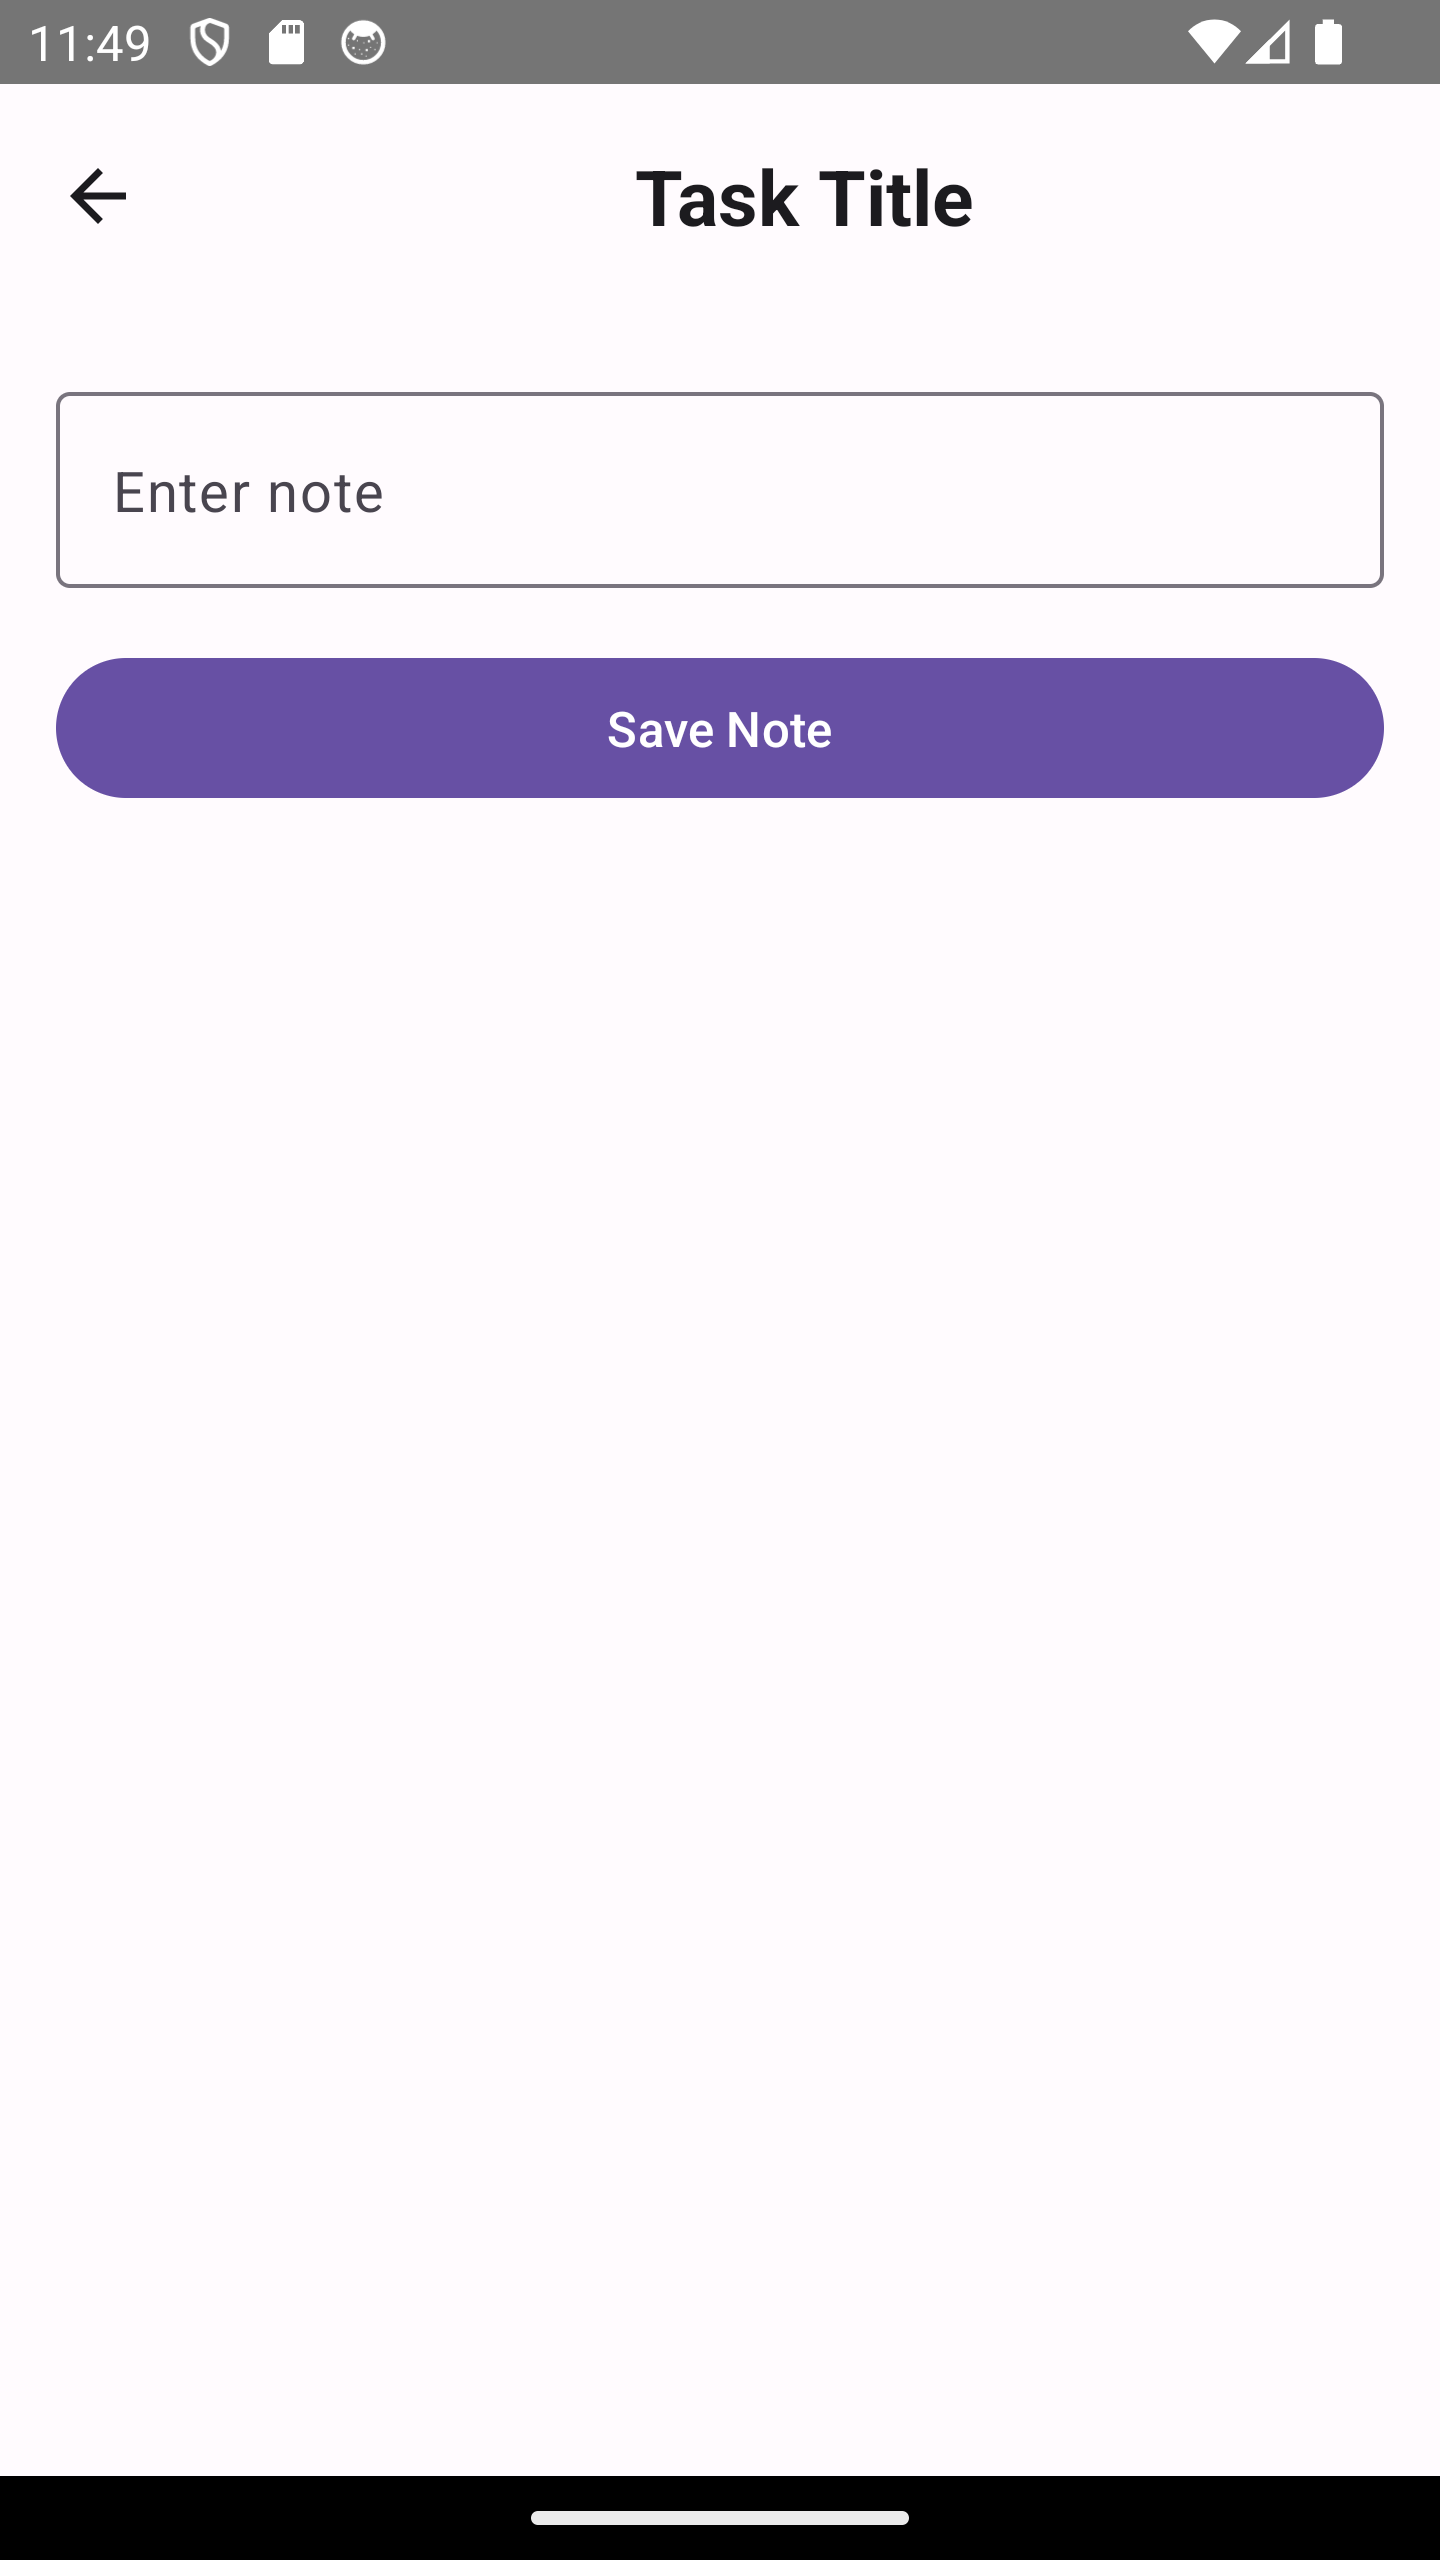
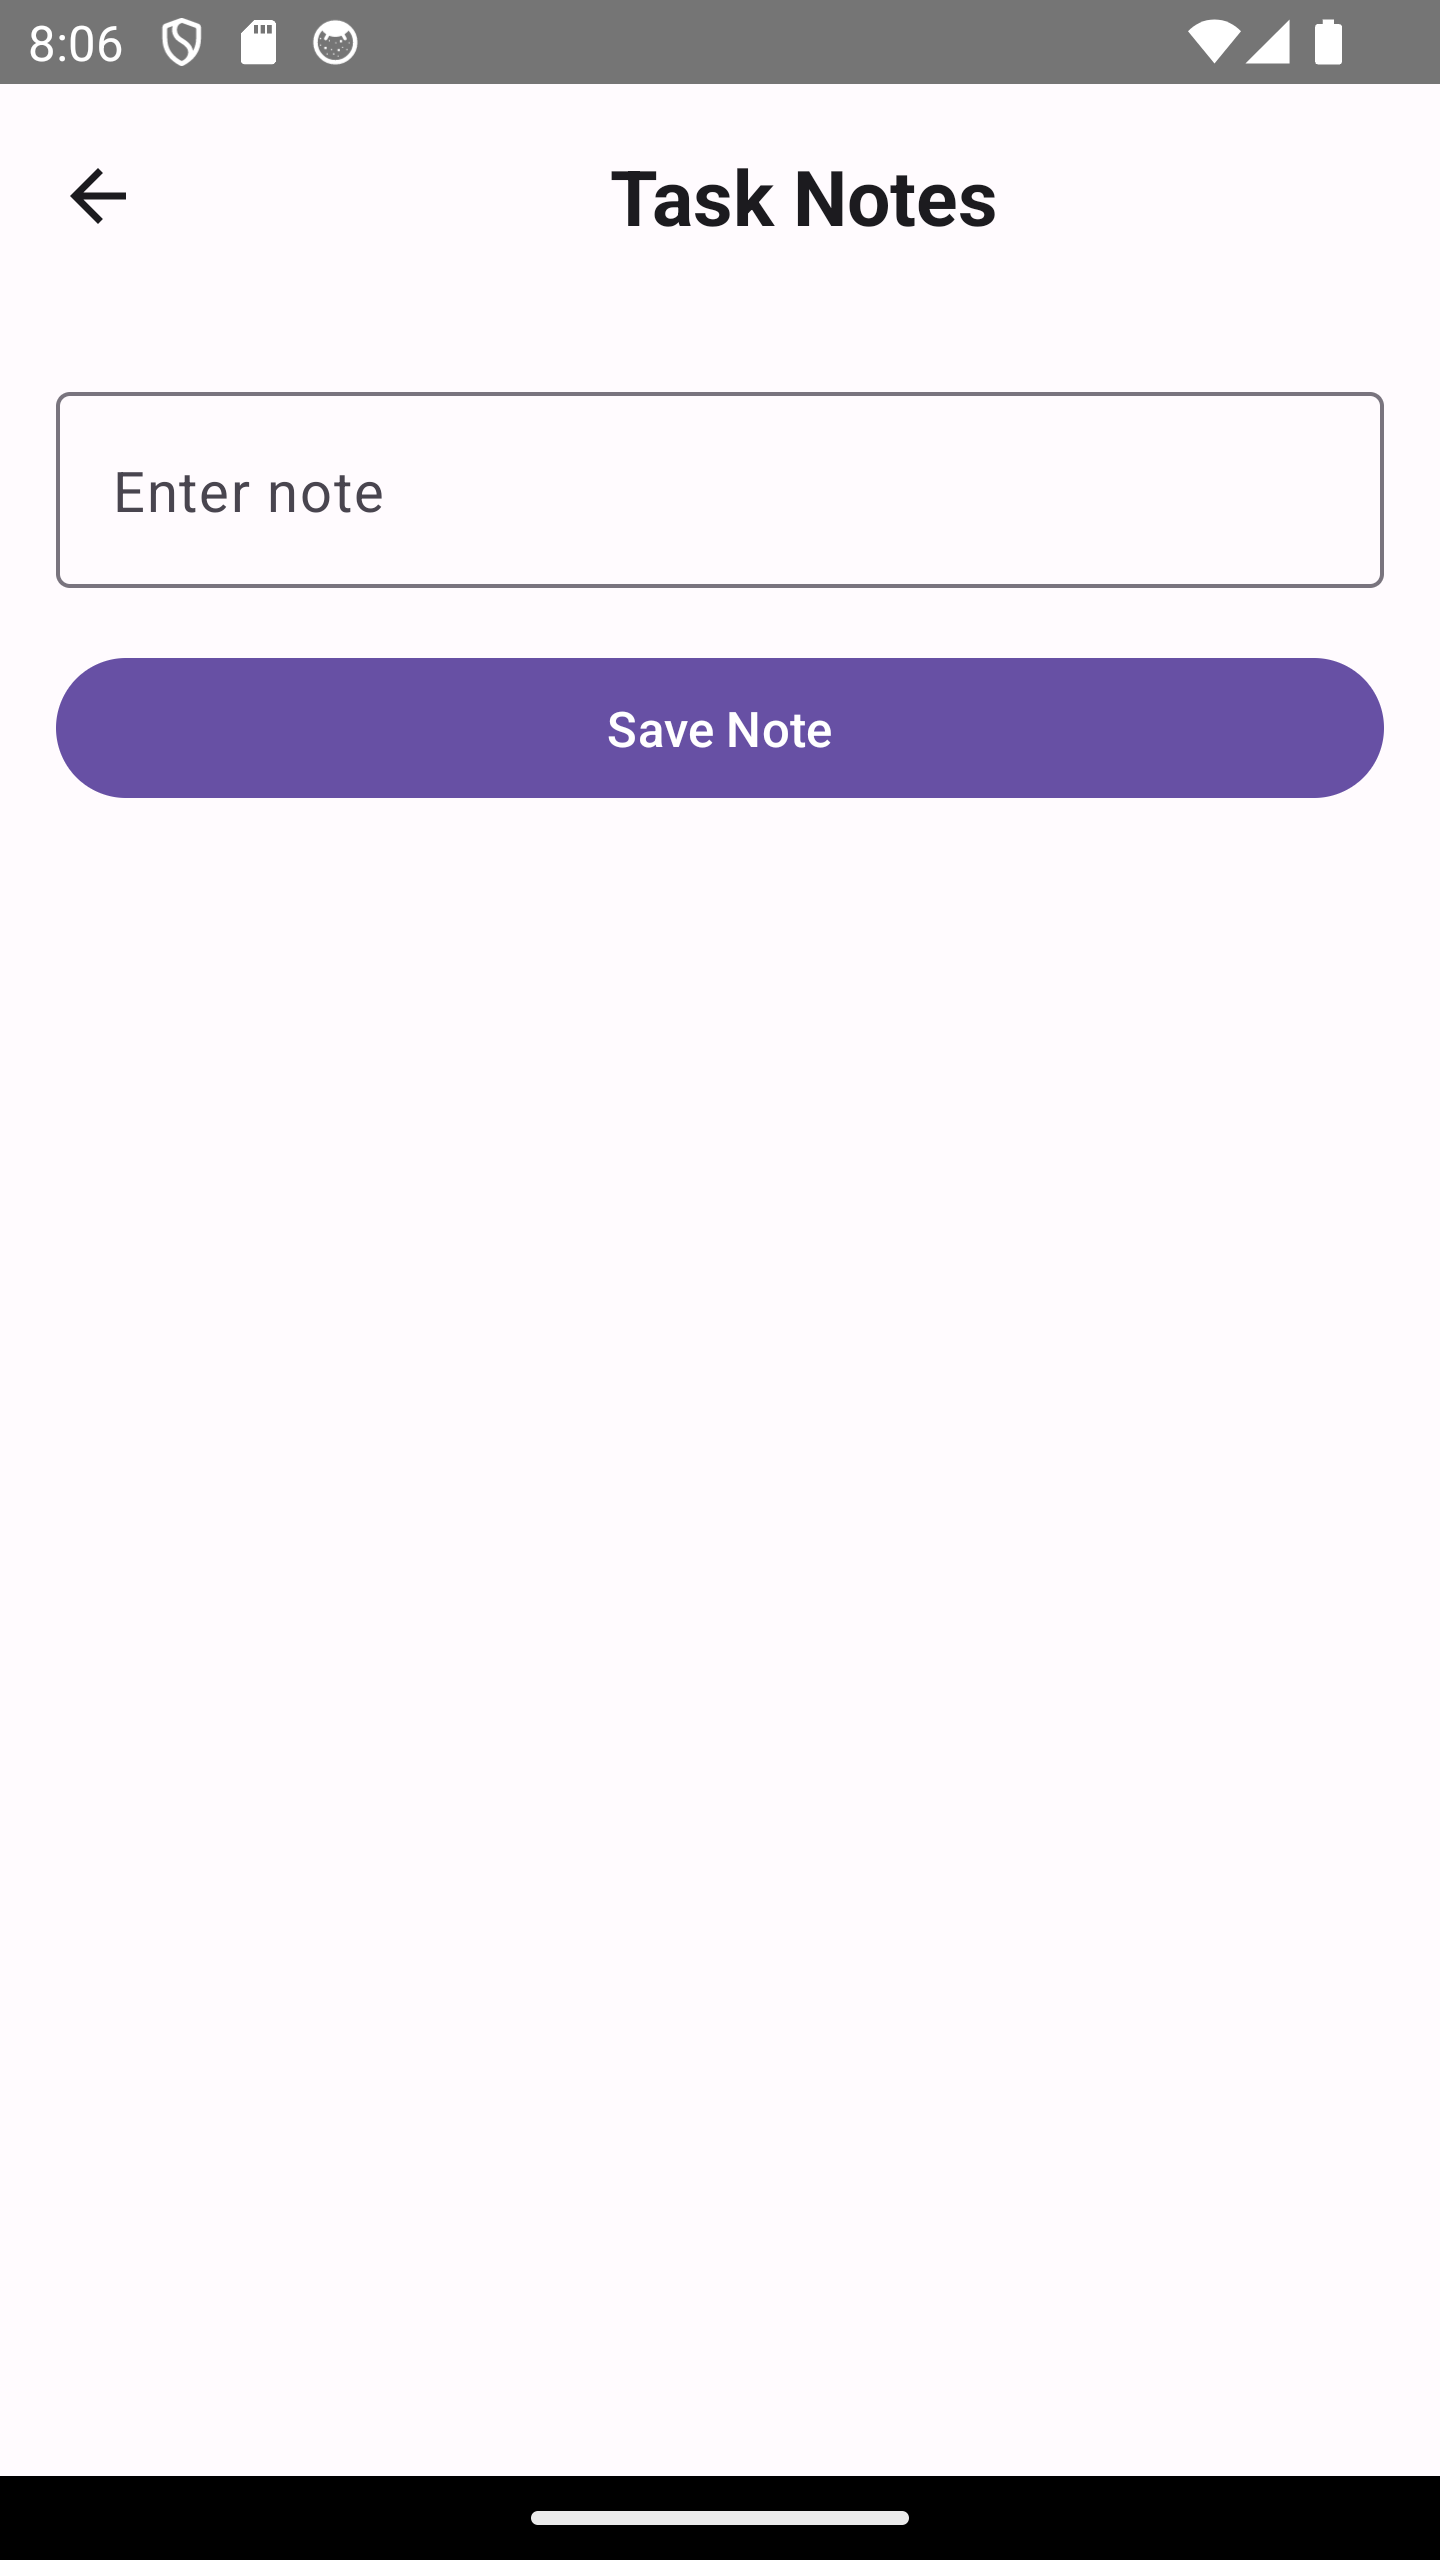
Adjusting title of AddNoteActivity

Changed region(s): [[0.4375, 0.0625, 0.6875, 0.0938], [0.0312, 0.0, 0.2812, 0.0312], [0.875, 0.0, 0.9062, 0.0312]]

diff --git a/app/src/main/java/com/zyasin/notestakingapp/ui/main/AddNoteActivity.kt b/app/src/main/java/com/zyasin/notestakingapp/ui/main/AddNoteActivity.kt
@@ -71,7 +71,7 @@ fun AddNoteScreen(
                     ) {
                         Text(
                             //text = stringResource(id = R.string.title_notes_activity),
-                            text="Task Title",
+                            text="Task Notes",
                             style = MaterialTheme.typography.titleLarge,
                             fontWeight = FontWeight.Bold,
                             modifier = Modifier.fillMaxWidth(),
